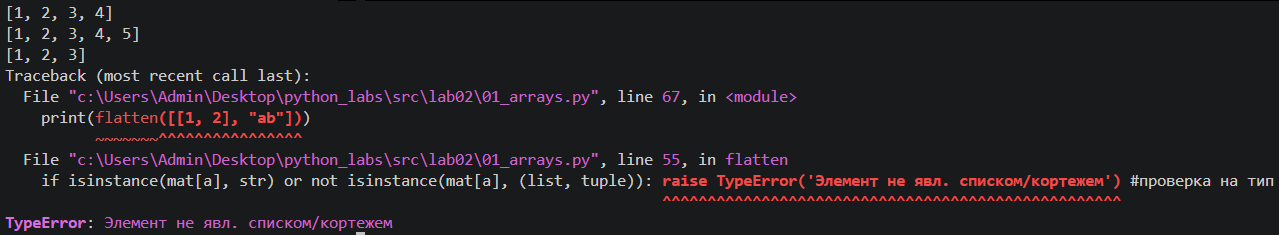
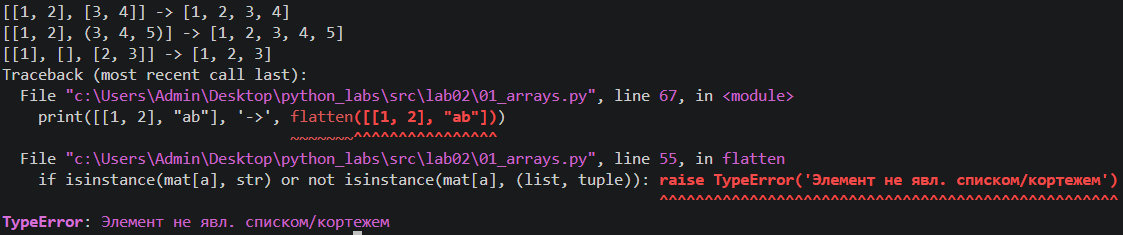
new test-cases

diff --git a/src/lab02/01_arrays.py b/src/lab02/01_arrays.py
@@ -13,11 +13,11 @@ def min_max(nums: list[float | int]) -> tuple[float | int, float | int]:
             maxim = el #nahodim maks
     return minim, maxim
 
-# print(min_max([3, -1, 5, 5, 0]))
-# print(min_max([42]))
-# print(min_max([-5, -2, -9]))
-# print(min_max([1.5, 2, 2.0, -3.1]))
-# print(min_max([]))
+# print([3, -1, 5, 5, 0], '->',min_max([3, -1, 5, 5, 0]))
+# print([42], '->', min_max([42]))
+# print([-5, -2, -9], '->', min_max([-5, -2, -9]))
+# print([1.5, 2, 2.0, -3.1], '->', min_max([1.5, 2, 2.0, -3.1]))
+# print([], '->', min_max([]))
 
 
 
@@ -38,10 +38,10 @@ def unique_sorted(nums: list[float | int]) -> list[float | int]:
 
     return uniq_nums
 
-# print(unique_sorted([3, 1, 2, 1, 3]))
-# print(unique_sorted([]))
-# print(unique_sorted([-1, -1, 0, 2, 2]))
-# print(unique_sorted([1.0, 1, 2.5, 2.5, 0]))
+# print([3, 1, 2, 1, 3], '->', unique_sorted([3, 1, 2, 1, 3]))
+# print([], '->', unique_sorted([]))
+# print([-1, -1, 0, 2, 2], '->', unique_sorted([-1, -1, 0, 2, 2]))
+# print([1.0, 1, 2.5, 2.5, 0], '->', unique_sorted([1.0, 1, 2.5, 2.5, 0]))
 
 
 
@@ -61,8 +61,8 @@ def flatten(mat: list[list | tuple]) -> list:
             
     return itog_spis
 
-# print(flatten([[1,2],[3,4]]))
-# print(flatten([[1, 2], (3, 4, 5)]))
-# print(flatten([[1], [], [2, 3]]))
-# print(flatten([[1, 2], "ab"]))
+# print([[1,2],[3,4]], '->', flatten([[1,2],[3,4]]))
+# print([[1, 2], (3, 4, 5)], '->', flatten([[1, 2], (3, 4, 5)]))
+# print([[1], [], [2, 3]], '->', flatten([[1], [], [2, 3]]))
+# print([[1, 2], "ab"], '->', flatten([[1, 2], "ab"]))
 

diff --git a/src/lab02/03_tuples.py b/src/lab02/03_tuples.py
@@ -15,10 +15,10 @@ def format_record(rec: tuple[str, str, float]) -> str:
 
     return f'{surname} {init}, гр. {group}, GPA {znaki}'
 
-print(format_record(("Иванов Иван Иванович", "BIVT-25", 4.6)))
-print(format_record(("Петров Пётр", "IKBO-12", 5.0)))
-print(format_record(("Петров Пётр Петрович", "IKBO-12", 5.0)))
-print(format_record(("  сидорова  анна   сергеевна ", "ABB-01", 3.999)))
+# print(("Иванов Иван Иванович", "BIVT-25", 4.6), '->', format_record(("Иванов Иван Иванович", "BIVT-25", 4.6)))
+# print(("Петров Пётр", "IKBO-12", 5.0), '->', format_record(("Петров Пётр", "IKBO-12", 5.0)))
+# print(("Петров Пётр Петрович", "IKBO-12", 5.0), '->', format_record(("Петров Пётр Петрович", "IKBO-12", 5.0)))
+# print(("  сидорова  анна   сергеевна ", "ABB-01", 3.999), '->', format_record(("  сидорова  анна   сергеевна ", "ABB-01", 3.999)))
 
 
 
